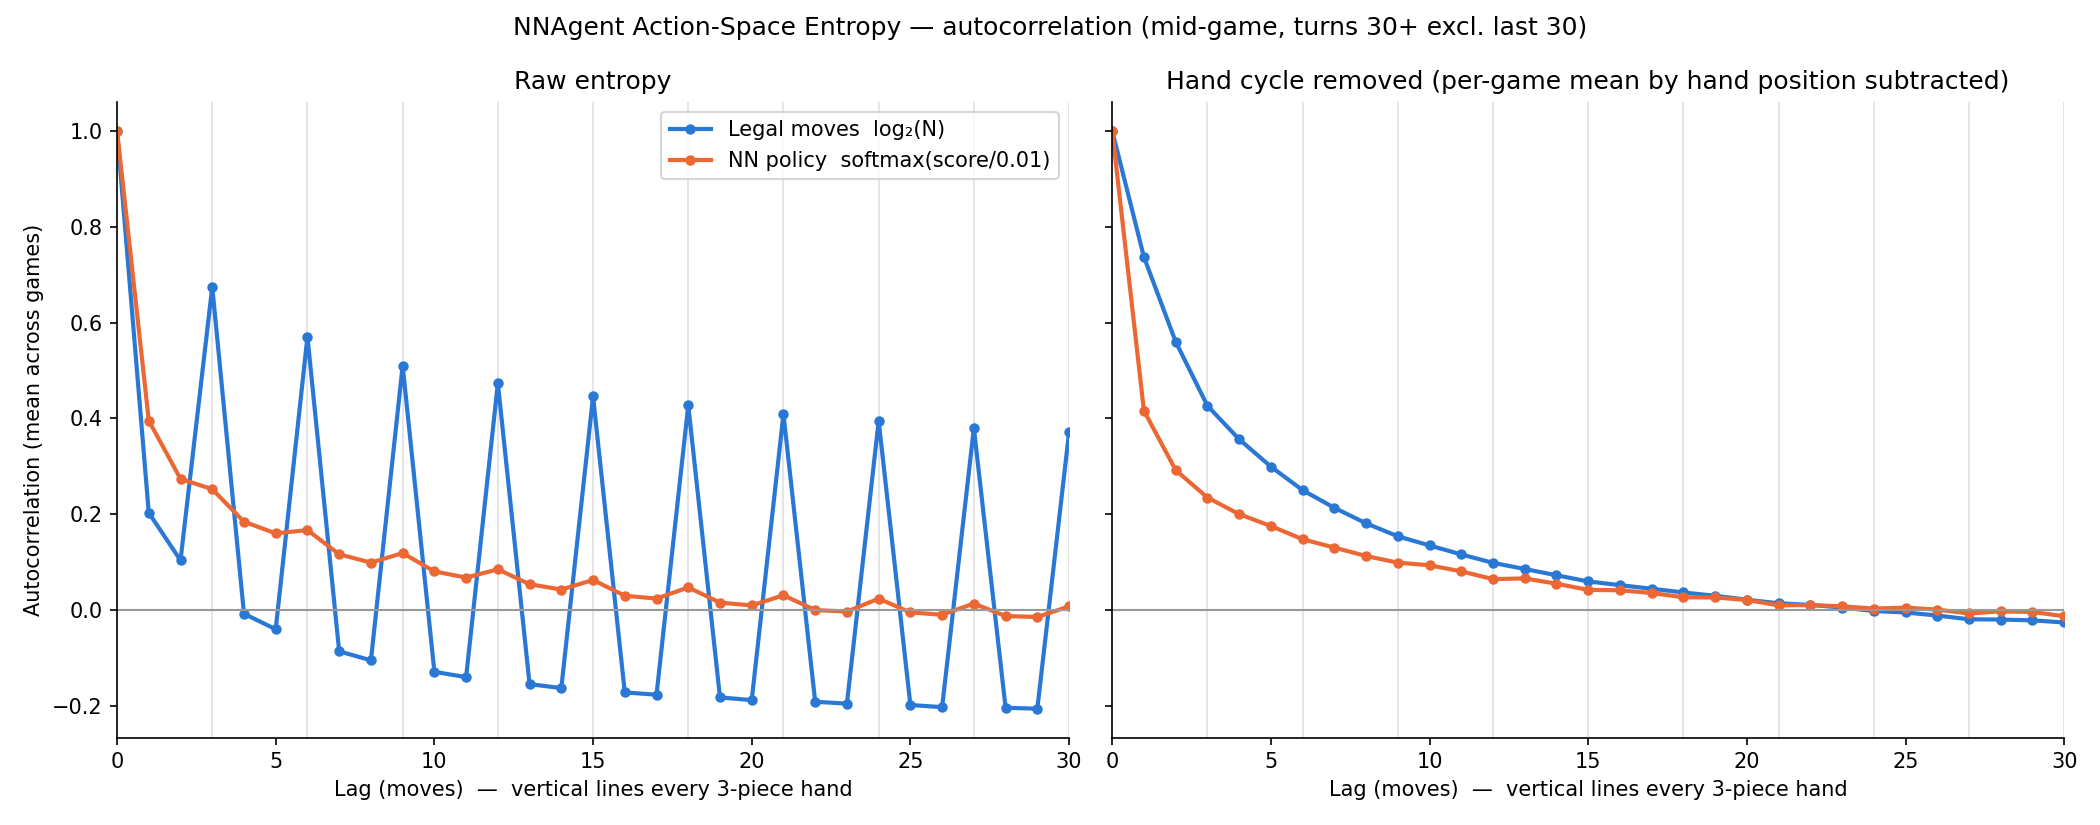
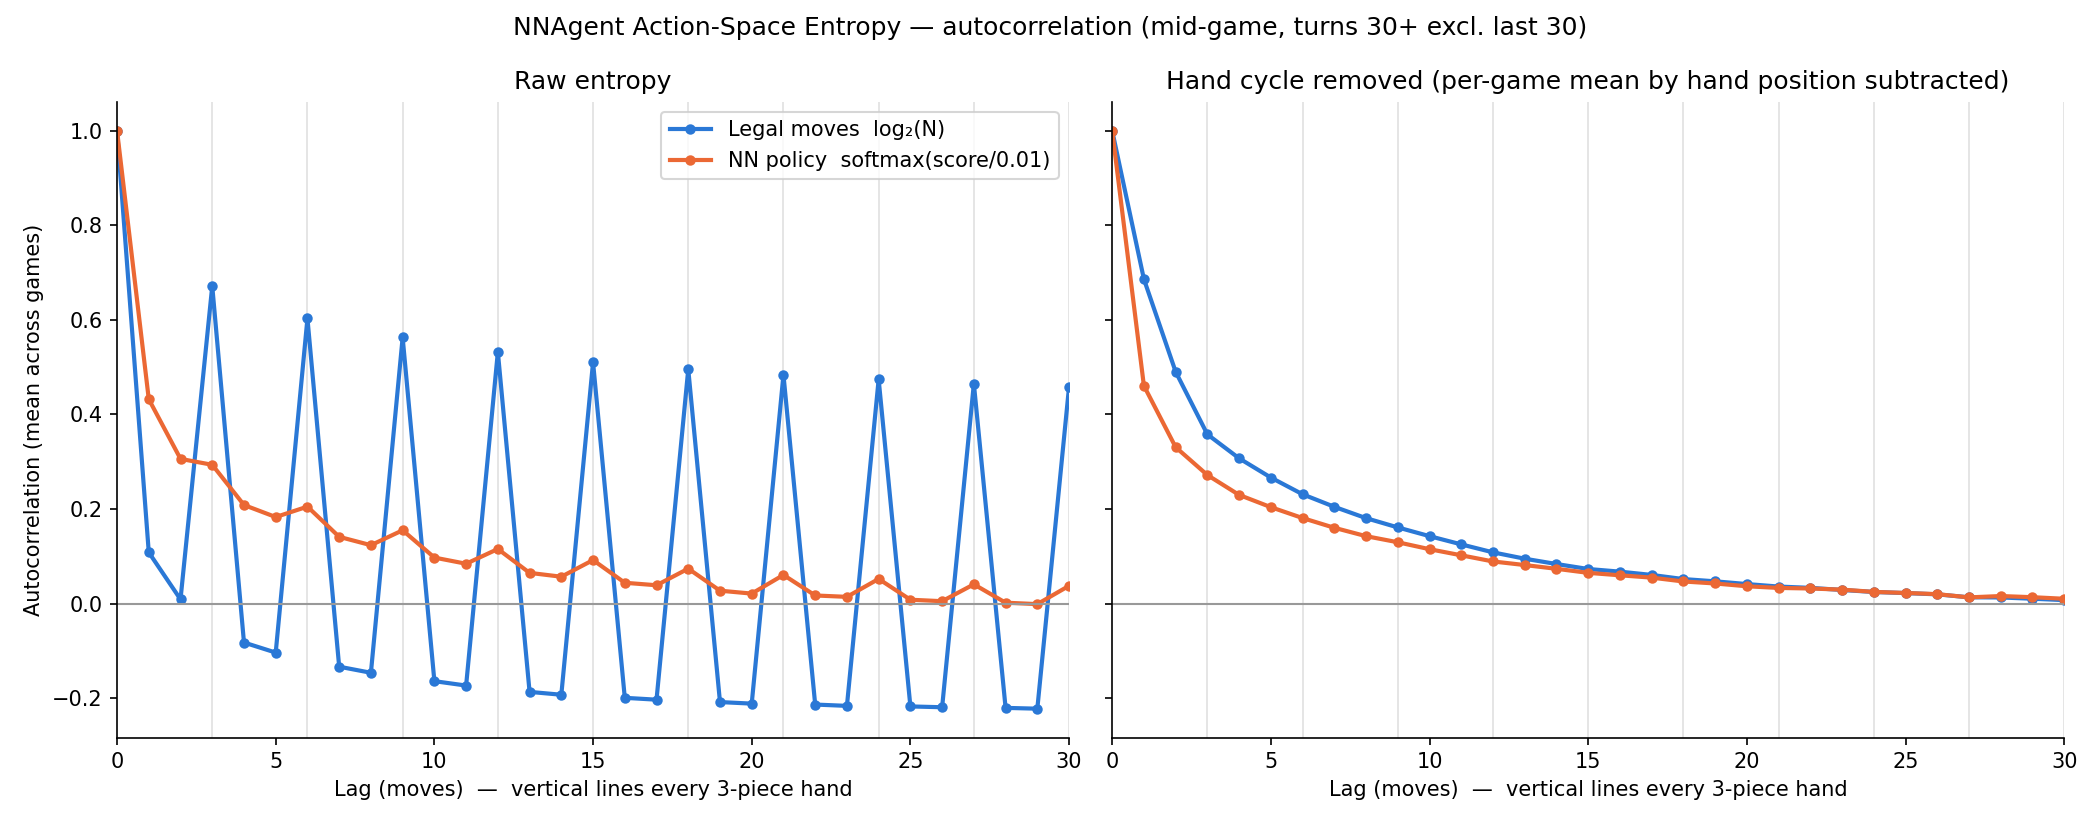
updated piece distribution, charts and results

diff --git a/content/posts/tenten.md b/content/posts/tenten.md
@@ -66,12 +66,14 @@ I implemented a 1010!-style block puzzle in Python. The rules are:
 
 - A 10×10 grid that starts empty.
 - You're dealt a hand of **3 random pieces**. You have to place all 3, in any order, before you get the next 3.
-- There are 16 piece shapes (lines, squares and L shapes) and they can't be rotated.
+- There are 19 piece shapes, the same set as the real game (a single dot, lines, squares and L shapes), and they
+  can't be rotated.
 - Any completely filled row or column is cleared.
 - It's game over when none of the pieces left in your hand fit anywhere.
 
 For scoring I've used **turns survived**, i.e. the number of pieces placed. The real game awards points for line
-clears, but survival is what actually matters and it keeps the analysis simple.
+clears, but survival is what actually matters and it keeps the analysis simple. The agent gets good enough that
+games are capped at 2000 turns, so it can't play forever.
 
 The 3-piece hand turns out to be quite important. It means every game runs in exact 3-move cycles, and you'll see
 that rhythm show up all over the results.
@@ -90,7 +92,7 @@ parameters.
 
 For training, a hand-written heuristic agent (which likes clearing lines and dislikes leaving holes) played the first
 batch of games. The network learned from those, overtook the heuristic after a single round, and from then on learned
-from its own games (self-play). The whole thing took ~37 minutes on a laptop.
+from its own games (self-play). The whole thing took ~2 hours on a laptop.
 
 ### Unity - Python pipeline
 
@@ -161,7 +163,7 @@ system in a production build. This is an unofficial recreation made for research
   height="2000"
 >}}
 
-All the results below come from 1000 games played by the agent, 300,889 moves in total.
+All the results below come from 1000 games played by the agent, 649,667 moves in total.
 
 ### Agent training
 
@@ -169,19 +171,21 @@ Here's how the trained agent compares with the heuristic and with random play:
 
 | Agent | Games | Mean turns survived | Median | Best |
 |---|---|---|---|---|
-| Random | 500 | 17 | 17 | 37 |
-| Heuristic | 200 | 118 | 97 | 374 |
-| **Neural network** | 1000 | **301** | **220** | **1811** |
+| Random | 500 | 19 | 19 | 44 |
+| Heuristic | 500 | 279 | 218 | 1244 |
+| **Neural network** | 1000 | **650** | **511** | **2000** (the cap) |
 
-So the network survives ~2.5× longer than the heuristic and ~18× longer than random play. That's pretty good for a
-network this small with no look-ahead.
+So the network survives ~2.3× longer than the heuristic and ~34× longer than random play. That's pretty good for a
+network this small with no look-ahead. 36 of its 1000 games hit the 2000-turn cap, so if anything these numbers
+undersell it a little.
 
 {{< lightbox src="/images/tenten/score_distribution.png" alt="Histogram of turns survived over 1000 games" >}}
 
 The spread of scores is interesting in its own right. It's heavily skewed: most games end within a few hundred
-turns, but there's a long tail of games going past 1000. It fits a log-normal distribution well, which is what you'd
-expect if survival builds up from lots of small, independent risks. Every new hand is another chance to be dealt
-something that doesn't fit. Keep that in mind, luck comes back later.
+turns, but there's a long tail running all the way out to the cap. The best fit is a Weibull distribution with a
+shape close to 1 (k = 1.15), which means an almost **constant risk of dying on every move**, however long the game
+has lasted. Every new hand is a fresh roll of the dice, another chance to be dealt something that doesn't fit. Keep
+that in mind, luck comes back later.
 
 ### Complexity of decision-making
 
@@ -193,12 +197,12 @@ bands cover the middle 50%.
 
 A few things stand out:
 
-- **There's a lot of choice, but it can be narrowed down.** A typical board allows ~44 legal moves (5.4 bits), but the
-  agent only treats ~16 of them as serious candidates (4.0 bits). That feels like a good place for a puzzle game to
+- **There's a lot of choice, but it can be narrowed down.** A typical board allows ~50 legal moves (5.7 bits), but the
+  agent only treats ~20 of them as serious candidates (4.35 bits). That feels like a good place for a puzzle game to
   sit. It's far from obvious, but it's not an overwhelming Go-style wall of options either. And
   it's not the case that every move is as good as any other.
 - **It's remarkably flat.** After the opening (the empty board allows loads of moves), both entropies settle within
-  ~30–40 turns and then stay flat for hundreds of moves. The board doesn't slowly fill up over time.
+  ~30–50 turns and then stay flat for hundreds, even thousands, of moves. The board doesn't slowly fill up over time.
 - **Then it collapses.** Over the last ~20–30 moves both drop sharply. The agent's entropy starts falling slightly
   before the legal-move count, which fits running out of *good* moves before you run out of *legal* ones.
 
@@ -210,7 +214,7 @@ hand of 3 shaded:
 The legal moves (blue) follow a very regular sawtooth: the most freedom on the first piece of each hand, the least on
 the last. The agent (orange) is more interesting. There are one-off spikes down to ~0 bits where one move is clearly
 best (probably a line clear on offer), and longer troughs lasting several hands when the board gets tight, e.g. game
-39 around turns 25–60.
+308 around turns 35–58 and game 844 around turns 38–60.
 
 {{< lightbox src="/images/tenten/action_entropy_hand_cycle.png" alt="Entropy by position in the 3-piece hand" >}}
 
@@ -218,11 +222,11 @@ Splitting this up by position in the hand makes the rhythm clear:
 
 | | 1st piece (3 in hand) | 2nd piece (2 in hand) | 3rd piece (1 in hand) |
 |---|---|---|---|
-| Legal moves | 6.19 bits | 5.73 bits | 4.75 bits |
-| Agent | 4.01 bits | 4.50 bits | 3.96 bits |
+| Legal moves | 6.44 bits | 5.93 bits | 4.91 bits |
+| Agent | 4.74 bits | 5.02 bits | 4.24 bits |
 
-The board's freedom pulses strongly with the hand, but the agent's decisions barely do. Having 3 pieces gives you
-more placements, but it doesn't make the decision harder. My guess (untested) is that with 3 pieces the playing order
+The board's freedom pulses strongly with the hand, but the agent's decisions only weakly do. Having 3 pieces gives
+you more placements, but it doesn't make the decision harder, and the 2nd piece is actually the hardest call. My guess (untested) is that with 3 pieces the playing order
 matters a lot, e.g. setting up a line clear, which makes one move stand out.
 
 ### Inevitability of outcome
@@ -230,7 +234,7 @@ matters a lot, e.g. setting up a line clear, which makes one move stand out.
 {{< lightbox src="/images/tenten/value_autocorr.png" alt="Autocorrelation of the network's value, and value in the last 100 moves" >}}
 
 The left panel is the autocorrelation of the network's value. It drops below 1/e (a common "it's mostly forgotten"
-threshold) after **8 moves**, and is essentially gone by **~19 moves**. In other words, knowing a position is good or
+threshold) after **9 moves**, and is essentially gone by **~22 moves**. In other words, knowing a position is good or
 bad right now tells you very little about how things will look 6 hands later.
 
 The right panel shows the median value in the run-up to game over. It's flat until ~20–30 moves before the end and
@@ -242,14 +246,14 @@ Now for my favourite chart:
 {{< lightbox src="/images/tenten/value_recovery.png" alt="Chance of recovering from a bad position, and outcomes of dips" >}}
 
 On the left is the chance that a position gets back to a typical value before game over, plotted against how bad
-it is right now. On the right, for all 4771 dips across the 1000 games, is the share that have recovered (blue) or hit
+it is right now. On the right, for all 9351 dips across the 1000 games, is the share that have recovered (blue) or hit
 game over (orange) as the moves go by.
 
-- **81% of dips recover**, with a median of 9 moves.
-- **19% end in game over**, with a median of 8 moves.
+- **90% of dips recover**, with a median of 11 moves.
+- **10% end in game over**, also with a median of 11 moves.
 - Almost every dip is settled one way or the other within ~30 moves.
 - **There's no point of no return.** The chance of recovery falls smoothly as the position gets worse, and even the
-  worst 1% of positions recover 44% of the time.
+  worst 1% of positions recover 58% of the time.
 
 So you can usually get out of a bad position quickly, unless you can't, and then it's over just as fast.
 
@@ -260,15 +264,16 @@ typical value (dashed) and the dip threshold (dotted):
 
 The endings come in roughly three flavours:
 
-- **A steady slide** over the last ~15 moves (games 70, 816, 845 and 623).
-- **Sudden death.** Game 170 recovers from a dip 20 moves from the end, climbs back above typical, then dies within
-  the last 2 moves.
-- **Hovering around the threshold** for the last 20–30 moves before finally going under (games 12 and 39).
+- **A steady slide** over the last ~20–30 moves (games 309, 632 and 816).
+- **Sudden death.** Game 19 climbs back from a long dip to above typical ~25 moves from the end, then crashes in the
+  last ~5 moves. Games 503 and 173 sit near typical until the last few moves.
+- **Hovering around or below the threshold** for the last 20–30 moves before finally going under (games 269
+  and 844).
 
 ### What do these metrics tell us about 1010!?
 
 On **complexity of decision-making**, 1010! sits in a sweet spot. There are always plenty of legal moves, but the agent can narrow them down
-to a manageable shortlist of ~16. That stays consistent for the whole game, until the final crunch.
+to a manageable shortlist of ~20. That stays consistent for the whole game, until the final crunch.
 
 On **inevitability of outcome**, 1010! is very much *not* inevitable, and I think that's a big part of why it works.
 Being halfway through a game tells you almost nothing about how it'll end. A bad position is usually recoverable,
@@ -313,12 +318,16 @@ post, if you want to dig deeper:
 
 ### A. Game details
 
-- **Pieces:** 16 shapes, drawn uniformly at random with no rotation:
-  - lines of 3, 4 and 5 cells, horizontal and vertical (6 shapes);
+- **Pieces:** the 19 shapes of the real 1010!, drawn uniformly at random with no rotation (the real game's piece
+  odds aren't public, so uniform is a stand-in):
+  - a single 1×1 dot;
+  - lines of 2, 3, 4 and 5 cells, horizontal and vertical (8 shapes);
   - 2×2 and 3×3 squares;
   - small (3-cell) and large (5-cell) L shapes, 4 rotations each.
 - **Clearing:** several rows and columns can clear at once.
 - **Reward:** +1 per move survived. Points for line clears exist in the code but are switched off.
+- **Turn limit:** every simulated game is stopped at 2000 turns. A stopped game is treated as *censored* (it
+  survived at least that long), not as a game over.
 - **Action space:** 3 pieces × 14 × 14 anchor positions = 588 possible actions, most of which are illegal at any
   given moment. The anchor is the top-left of the piece's 5×5 bounding box, from −4 to 9 on each axis.
 
@@ -347,23 +356,32 @@ $\sum_k 0.98^k$ over the remaining moves, scaled to [0, 1]. A discount of 0.98 g
 moves, so positions 100 or 500 moves from death have almost the same target. The network is never asked to tell
 them apart.
 
+**What it's shown.** The network is trained on *after-states*: the board just after a move (lines already cleared)
+plus the pieces still waiting. That's exactly what the agent asks it to rate when choosing a move. After the last
+piece of a hand, the after-state has an empty hand, because the next hand hasn't been dealt yet, so the network
+learns the value averaged over whatever hand comes next. The "value of a position" in the charts is the network's
+score for the best move available there.
+
 ### D. Training
 
 {{< lightbox src="/images/tenten/training_and_analysis.png" alt="How the AI was trained and analysed" >}}
 
 - **Data generation:** each generation plays 1000 games with a "teacher" agent, which makes a random move 50% of the
-  time for variety. Every position is recorded with its discounted return, computed backwards from game over (+1
-  per move, discount 0.98). The targets are scaled by the largest return seen.
+  time for variety. Every after-state is recorded with its discounted return, computed backwards from game over (+1
+  per move, discount 0.98). The targets are scaled by the largest return seen. In games stopped at the 2000-turn
+  limit, the last 200 positions are dropped, because their returns are cut short.
 - **Augmentation:** each position is also added in all 8 rotations and reflections. The board and the pieces are
   transformed together, so the pieces still fit.
 - **Optimisation:** mean squared error, Adam (learning rate 0.01, weight decay 1e-4), batch size 8000, 20 epochs per
   generation. The learning rate is halved when validation loss stalls (patience 3), with an 80/20 train/validation
   split. The best validation checkpoint within each generation is kept.
 - **Curriculum:** the heuristic is the teacher at first. Once the network out-survives the heuristic by 5% (over 50
-  games each), it switches to self-play. 10 generations in total.
-- **How it went:** after generation 0 (heuristic data only) the network survived 26 turns, against the heuristic's
-  120. After generation 1 it survived 228, beat the heuristic and switched to self-play for generations 2–9. Final
-  validation loss was 0.0239, and the whole run took ~37 minutes on an Apple Silicon GPU.
+  games each), it switches to self-play. 10 generations were planned.
+- **How it went:** before training the network survived 23 turns, against the heuristic's 245. After generation 1
+  (heuristic data only) it survived 746, beat the heuristic and switched to self-play. Self-play generations took
+  ~35 minutes each, because the games are now long, so I stopped the run after ~2 hours, partway through generation
+  6. The model used here is the best checkpoint from generation 6 (validation loss 0.0309), all on an Apple Silicon
+  GPU.
 
 ### E. Metric details
 
@@ -371,17 +389,20 @@ them apart.
   best and the median move is only ~0.01–0.07, so at $T = 1$ every move would look equally likely. $T$ is a free
   parameter. The patterns hold across temperatures, but the absolute numbers depend on it.
 - **Normalised entropy:** $H / \log_2 N$, from 0 to 1. This is the agent's decisiveness *relative to* how many options
-  it has (the bottom row of the entropy chart). It sits at ~0.8 for most of the game and dips to ~0.72 at the end.
+  it has (the bottom row of the entropy chart). It sits at ~0.83–0.85 for most of the game and dips to ~0.63 at the
+  end.
 - **Mid-game:** turn 30 onwards, excluding the last 30 moves. Used for the steady-state analyses, because entropy and
   value are still settling after the empty board early on, and collapse at the end.
 - **Autocorrelation at lag $n$:** the correlation between a quantity at turn $t$ and at turn $t + n$, using each game's
   differences from its own mid-game average, averaged across games (only games long enough for the lags shown).
 - **Hand cycle removed:** before correlating, subtract each game's average for each position in the hand (1st, 2nd,
   3rd piece). This leaves only structure slower than the 3-move rhythm.
-- **Dips:** the typical value is the median mid-game value, 0.348. A dip starts when the value first falls into the
-  bottom 10% of mid-game values (below 0.274), and a new dip can only start after the previous one has recovered.
-  926 of the 1000 games ended in a dip that never recovered. The other ~7% died without ever reaching the bottom 10%,
-  a sudden death from a bad deal.
+- **Dips:** the typical value is the median mid-game value, 0.413. A dip starts when the value first falls into the
+  bottom 10% of mid-game values (below 0.354), and a new dip can only start after the previous one has recovered.
+  944 of the 964 games that ended (the rest hit the turn limit) did so in a dip that never recovered. The other ~2%
+  died without ever reaching the bottom 10%, a sudden death from a bad deal.
+- **Capped games:** anything measured "before game over" only uses the 964 games that ended. Positions in capped
+  games that hadn't recovered by the limit have an unknown outcome and are left out of the recovery analysis.
 
 ### F. Extra charts
 
@@ -393,15 +414,16 @@ removed (right):
 The legal-move entropy has sharp peaks every 3 moves that barely fade, because the game deals a new hand every 3
 moves regardless. With the cycle removed, it decays smoothly to ~0 by ~20 moves and never goes negative, so there's
 no longer hidden cycle, just persistence. A tight board stays tight for a couple of hands, then drifts back. The
-agent's entropy decorrelates much faster: its decisiveness is mostly move-to-move.
+agent's entropy decorrelates faster over the first few moves, then follows the same slow tail: its decisiveness is
+partly move-to-move, with a slower component driven by how tight the board is.
 
 **Value in the opening.** The first 100 moves of the same 10 games:
 
 {{< lightbox src="/images/tenten/value_traces.png" alt="Network value over the first 100 moves of 10 games" >}}
 
-The value starts at ~0.48 on the empty board and settles within ~30 turns. Game 39 spends turns ~22–55 at or below the
-dip threshold, the same stretch as its entropy trough, then climbs back above typical. Game 816 dips deep (~0.18)
-around turns 70–95 and recovers.
+The value starts at ~0.53 on the empty board and settles within ~30 turns. Game 308 slides below the dip threshold
+from turn ~35 and bottoms out at ~0.16 around turn 51, the same stretch as its entropy trough, then climbs back above
+typical by turn ~60. Game 507 drops sharply at turn 36 and recovers within ~6 moves.
 
 ### G. Limitations and next steps
 
@@ -410,10 +432,10 @@ around turns 70–95 and recovers.
   play. So "how inevitable the outcome is" is measured *through* the network. A more direct test is to replay the
   same position many times with different deals and measure how widely the outcomes spread. That's a good experiment
   for the follow-up post.
-- **The 3rd-piece blind spot.** When one piece is left, the network scores each candidate position with all three
-  piece slots empty, which never occurs in training. The last piece of each hand is therefore judged partly outside
-  what the network has seen. This is a known issue with a straightforward fix: include those positions in the
-  training data and retrain.
+- **Training was cut short.** The model is the best checkpoint from generation 6 of a planned 10, so more self-play
+  might make it a little stronger.
+- **The turn limit.** 3.6% of games were stopped at 2000 turns. The mean and median count them as 2000, so they
+  slightly understate the agent.
 
 ---
 
